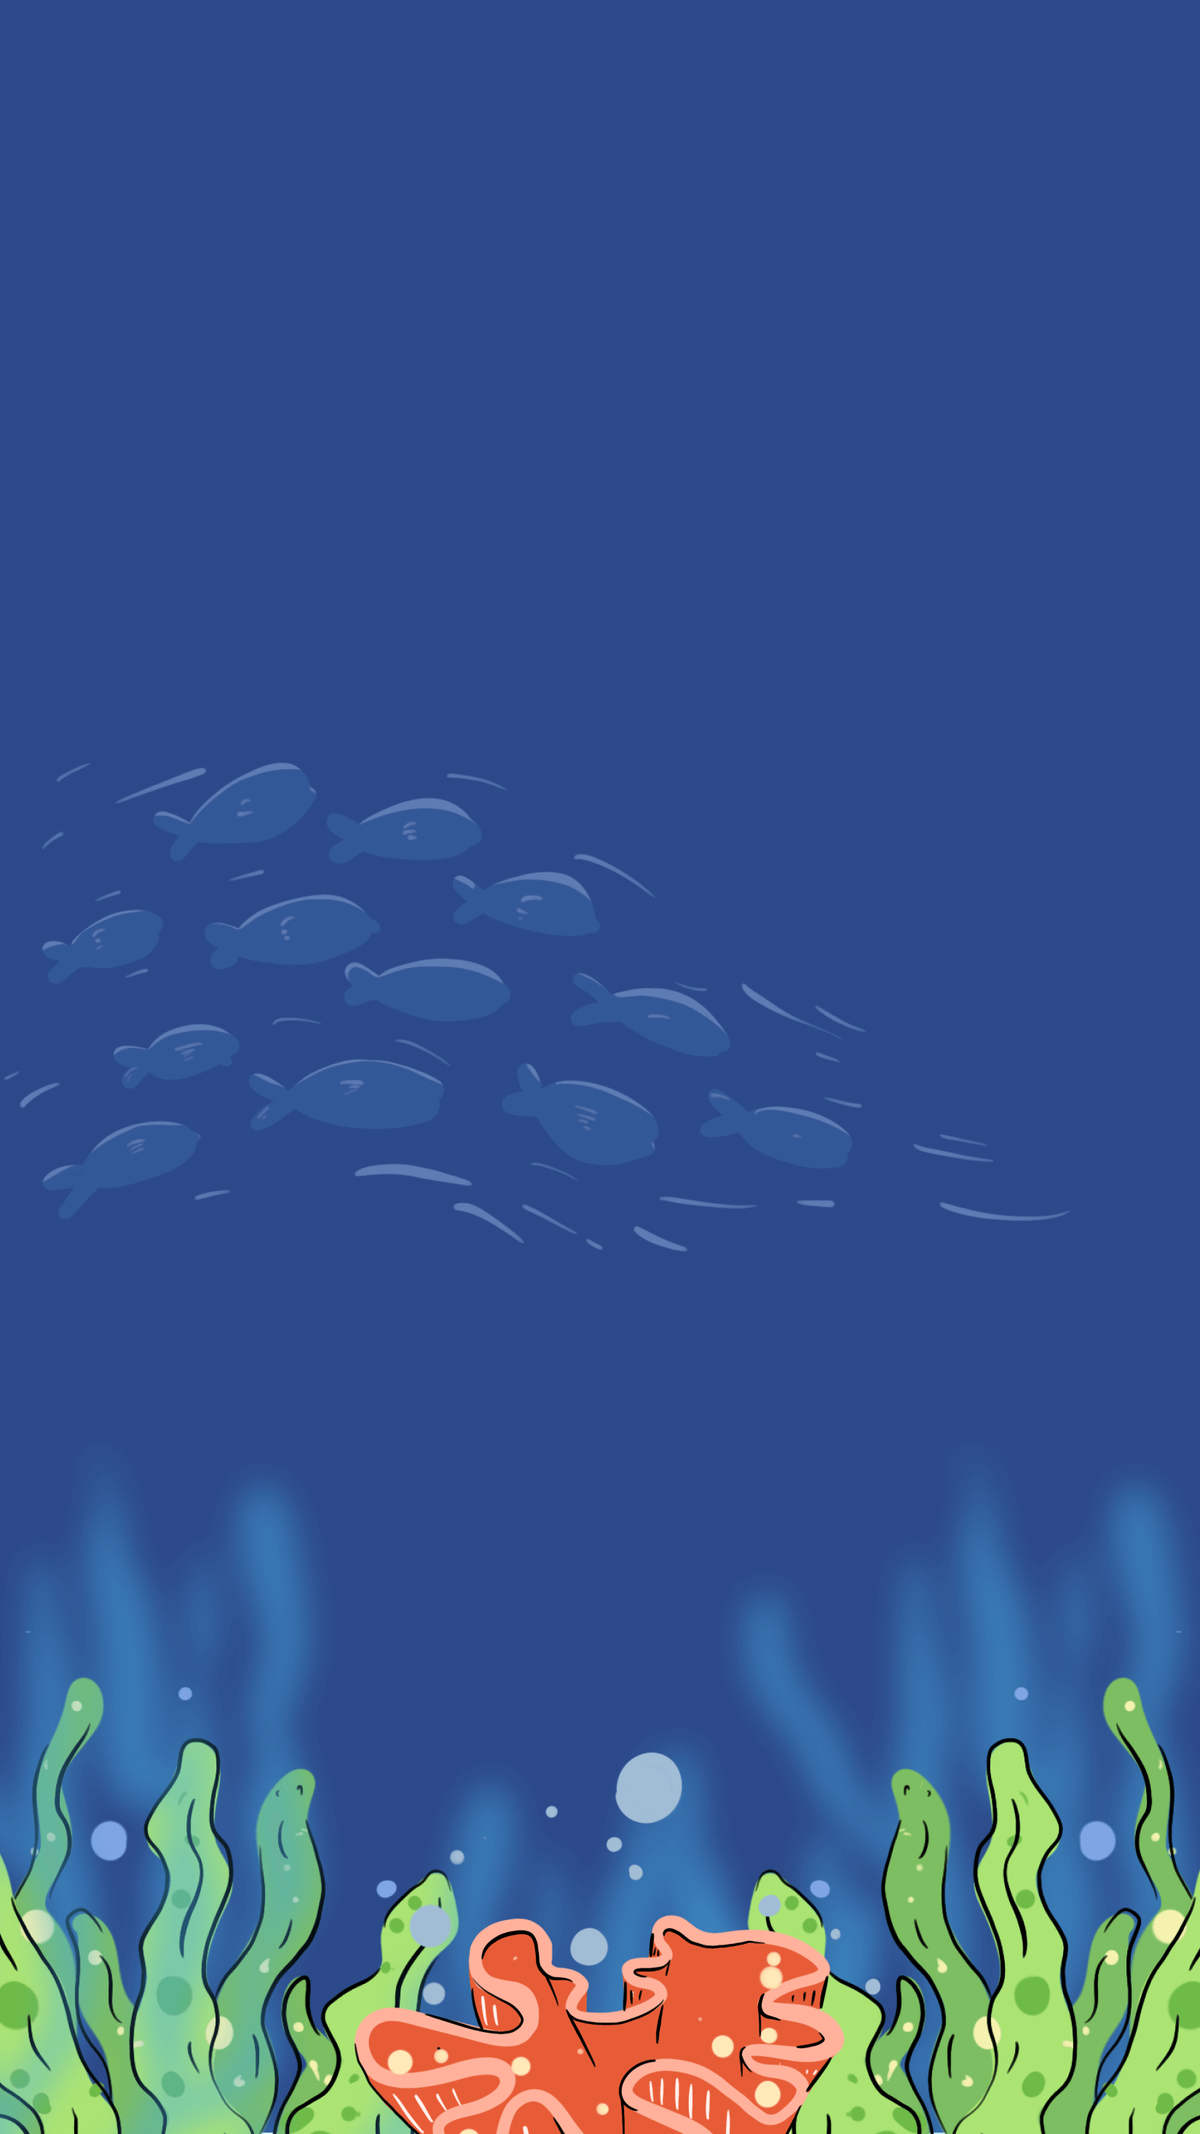
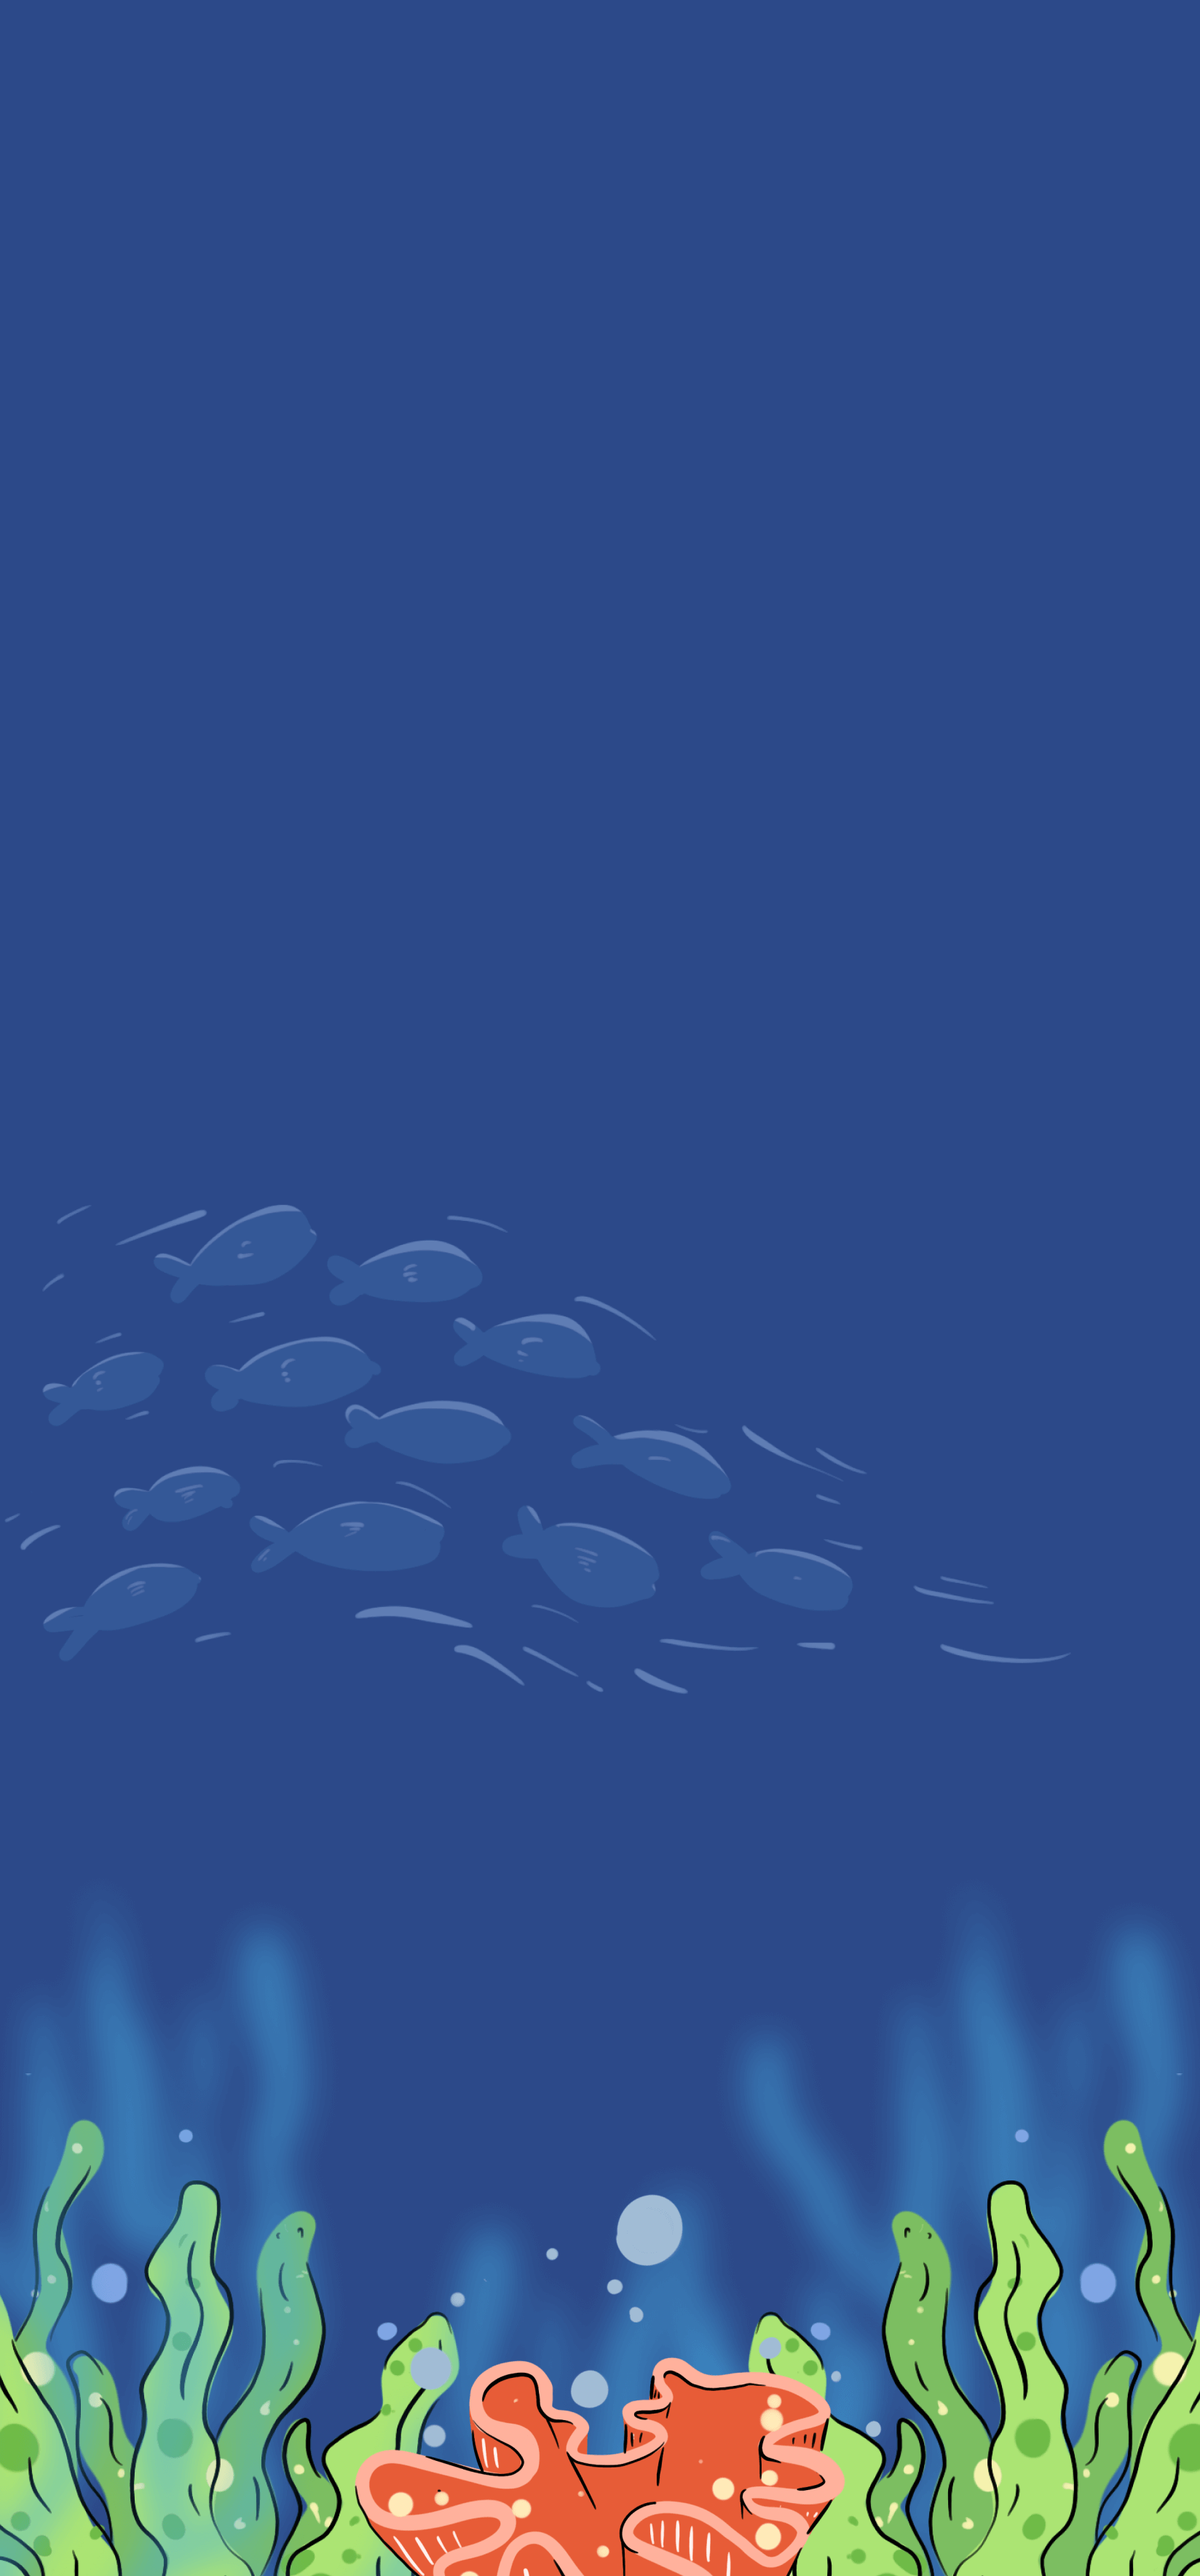
More changes

diff --git a/css/magazine.css b/css/magazine.css
@@ -477,11 +477,12 @@ body{
 		display: none;
 	}
 	body{
-		background-image: url('../pages/bg-small.png');
+		background: url('../pages/bg-small.png'), #2C4989;
 		background-size: cover;
 		padding: 0px 32px;
 	    height: 100vh;
-	    background-position: center;
+	    background-position-x: center;
+	    background-position-y: bottom;
 	}
 	.book-preview-mob{
 		display: block;
